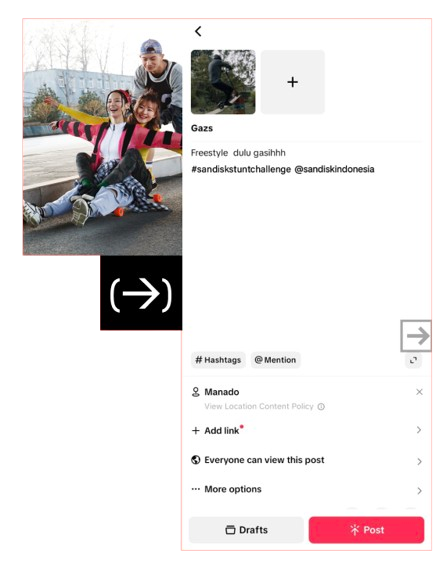
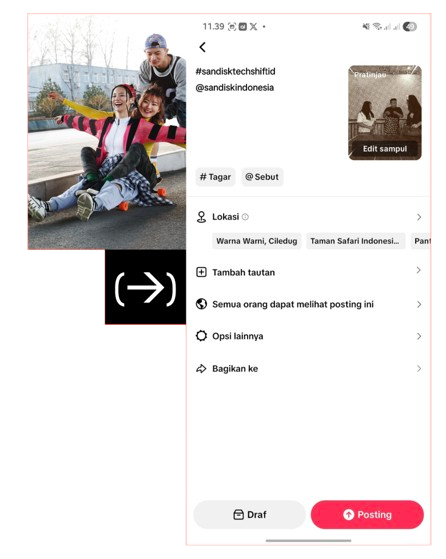
feat(app): add new images

diff --git a/app/techshiftchallenge/page.tsx b/app/techshiftchallenge/page.tsx
@@ -436,7 +436,7 @@ export default function TechShiftChallengePage() {
                   <Image src="/images/form.jpeg" alt="Google Form Sandisk Challenge" fill className="object-cover object-center" />
                 </div>
                 <div className="flex items-start gap-3">
-                  <span className="bg-black text-white text-base font-black px-2 py-1 leading-none flex-shrink-0">04.</span>
+                  <span className="bg-black text-white text-base font-black px-2 py-1 leading-none flex-shrink-0">4.</span>
                   <p className="text-white text-base sm:text-lg font-bold leading-snug">Langkah terakhir! Klik tombol "Ikuti Sekarang" di halaman utama untuk melakukan registrasi</p>
                 </div>
               </motion.div>
@@ -620,7 +620,7 @@ export default function TechShiftChallengePage() {
                   <div className="w-[520px] 2xl:w-[640px] flex-shrink-0 flex flex-col justify-end px-16 pb-10">
                     <div className="flex items-start gap-4 mb-4">
                       <div className="bg-black px-4 py-3 flex-shrink-0">
-                        <span className="text-white text-3xl 2xl:text-4xl font-black">04.</span>
+                        <span className="text-white text-3xl 2xl:text-4xl font-black">4.</span>
                       </div>
                       <p className="text-white text-4xl 2xl:text-5xl font-semibold leading-snug pt-1">
                         Langkah terakhir! Klik tombol "Ikuti Sekarang" di halaman utama untuk melakukan registrasi
